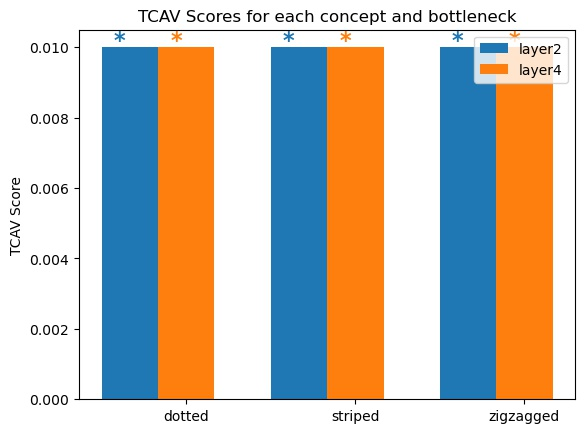
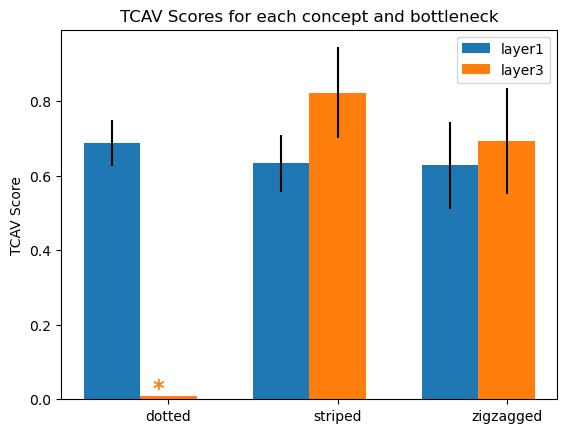
finally got some results

Changed region(s): [[0.0, 0.0, 0.9894, 0.9908]]

diff --git a/model.py b/model.py
@@ -1,6 +1,7 @@
 import torch
 import torchvision
 import torch.nn.functional as F
+from torchvision import transforms
 from abc import ABCMeta
 from abc import abstractmethod
 import numpy as np
@@ -8,6 +9,9 @@ import tensorflow as tf
 import gc
 
 import os
+
+from torchvision.transforms.transforms import CenterCrop
+
 os.environ["CUDA_VISIBLE_DEVICES"] = "0"
 device = torch.device("cuda:0" if torch.cuda.is_available() else "cpu")
 
@@ -25,7 +29,9 @@ class ModelWrapper(object):
         pass
 
     def get_gradient(self, acts, y, bottleneck_name):
-        inputs = torch.autograd.Variable(torch.tensor(acts).to(device), requires_grad=True)
+        inputs = torch.autograd.Variable(
+            torch.tensor(acts).to(device), requires_grad=True
+        )
         targets = (y[0] * torch.ones(inputs.size(0))).long().to(device)
 
         cutted_model = self.get_cutted_model(bottleneck_name).to(device)
@@ -34,7 +40,7 @@ class ModelWrapper(object):
 
         # y=[i]
         grads = -torch.autograd.grad(outputs[:, y[0]], inputs)[0]
-        
+
         grads = grads.detach().cpu().numpy()
 
         cutted_model = None
@@ -58,7 +64,9 @@ class ModelWrapper(object):
             global bn_activation
             bn_activation = out
 
-        handle = self.model._modules[bottleneck_name].register_forward_hook(save_activation_hook)
+        handle = self.model._modules[bottleneck_name].register_forward_hook(
+            save_activation_hook
+        )
 
         self.model.to(device)
         inputs = torch.FloatTensor(examples).permute(0, 3, 1, 2).to(device)
@@ -84,8 +92,7 @@ class ImageModelWrapper(ModelWrapper):
 
 
 class PublicImageModelWrapper(ImageModelWrapper):
-    """Simple wrapper of the public image models with session object.
-    """
+    """Simple wrapper of the public image models with session object."""
 
     def __init__(self, labels_path, image_shape):
         super(PublicImageModelWrapper, self).__init__(image_shape=image_shape)
@@ -93,6 +100,7 @@ class PublicImageModelWrapper(ImageModelWrapper):
 
     def label_to_id(self, label):
         return self.labels.index(label)
+
 
 class ResNet50_cutted(torch.nn.Module):
     def __init__(self, resnet50, bottleneck):
@@ -121,7 +129,7 @@ class ResNet50_cutted(torch.nn.Module):
         y = x
         for i in range(len(self.layers)):
             # pre-forward process
-            if self.layers_names[i] == 'fc':
+            if self.layers_names[i] == "fc":
                 y = torch.flatten(y, 1)
             y = self.layers[i](y)
         return y
@@ -145,7 +153,7 @@ class InceptionV3_cutted(torch.nn.Module):
                 continue  # because we already have the output of the bottleneck layer
             if not bottleneck_met:
                 continue
-            if name == 'AuxLogits':
+            if name == "AuxLogits":
                 continue
 
             self.layers.append(layer)
@@ -165,7 +173,7 @@ class InceptionV3_cutted(torch.nn.Module):
             #     y = F.adaptive_avg_pool2d(y, (1, 1))
             #     y = F.dropout(y, training=self.training)
             #     y = y.view(y.size(0), -1)
-            if self.layers_names[i] == 'fc':
+            if self.layers_names[i] == "fc":
                 y = y.view(y.size(0), -1)
 
             # print(self.layers_names[i])
@@ -176,14 +184,16 @@ class InceptionV3_cutted(torch.nn.Module):
 
 
 class InceptionV3Wrapper(PublicImageModelWrapper):
-
     def __init__(self, labels_path):
         image_shape = [299, 299, 3]
-        super(InceptionV3Wrapper, self).__init__(image_shape=image_shape,
-                                                 labels_path=labels_path)
-        self.model = torchvision.models.inception_v3(pretrained=True, transform_input=True)
+        super(InceptionV3Wrapper, self).__init__(
+            image_shape=image_shape, labels_path=labels_path
+        )
+        self.model = torchvision.models.inception_v3(
+            pretrained=True, transform_input=True
+        )
         # self.model = torchvision.models.resnet50(pretrained=True)
-        self.model_name = 'InceptionV3_public'
+        self.model_name = "InceptionV3_public"
 
     def forward(self, x):
         return self.model.forward(x)
@@ -191,16 +201,26 @@ class InceptionV3Wrapper(PublicImageModelWrapper):
     def get_cutted_model(self, bottleneck):
         return InceptionV3_cutted(self.model, bottleneck)
 
-class ResNet50Wrapper(PublicImageModelWrapper):
 
+class ResNet50Wrapper(PublicImageModelWrapper):
     def __init__(self, labels_path):
-        image_shape = [224, 224, 3]
-        super(ResNet50Wrapper, self).__init__(image_shape=image_shape,
-                                                 labels_path=labels_path)
+        image_shape = [256, 256, 3]
+        super(ResNet50Wrapper, self).__init__(
+            image_shape=image_shape, labels_path=labels_path
+        )
         self.model = torchvision.models.resnet50(pretrained=True)
-        self.model_name = 'ResNet50_public'
+        self.model_name = "ResNet50_public"
+        self.transform = transforms.Compose(
+            [
+                transforms.CenterCrop(224),
+                transforms.Normalize(
+                    mean=[0.485, 0.456, 0.406], std=[0.229, 0.224, 0.225]
+                ),
+            ]
+        )
 
     def forward(self, x):
+        x = self.transform(x)
         return self.model.forward(x)
 
     def get_cutted_model(self, bottleneck):

diff --git a/run.py b/run.py
@@ -18,13 +18,14 @@ import tensorflow as tf
 # bottlenecks: list of bottleneck names (intermediate layers in your model) that you want to use for TCAV. These names are defined in the model wrapper below.
 
 source_dir = "./image_net_subsets/"
+# source_dir = "./YOUR_FOLDER/"
 
 working_dir = './tcav_class_test'
 activation_dir = working_dir + '/activations/'
 cav_dir = working_dir + '/cavs/'
 # bottlenecks = ['Mixed_5d', 'Conv2d_2a_3x3']
 # bottlenecks = ['Conv2d_2a_3x3']
-bottlenecks = ['layer2','layer4']
+bottlenecks = ['layer1','layer3']
 # bottlenecks = ['layer4']
 
 utils.make_dir_if_not_exists(working_dir)
@@ -32,7 +33,7 @@ utils.make_dir_if_not_exists(activation_dir)
 utils.make_dir_if_not_exists(cav_dir)
 
 # this is a regularizer penalty parameter for linear classifier to get CAVs.
-alphas = [0.1]
+alphas = [0.0001]
 
 target = 'zebra'
 concepts = ["dotted", "striped", "zigzagged"]
@@ -42,15 +43,15 @@ LABEL_PATH = './imagenet_comp_graph_label_strings.txt'
 # mymodel = model.InceptionV3Wrapper(LABEL_PATH)
 mymodel = model.ResNet50Wrapper(LABEL_PATH)
 act_generator = act_gen.ImageActivationGenerator(
-    mymodel, source_dir, activation_dir, max_examples=100)
+    mymodel, source_dir, activation_dir, max_examples=40)
 
 # ---------------------------------------------------------------------------------------------------------------
 # num_random_exp: number of experiments to confirm meaningful concept direction. TCAV will search for this many folders named random500_0, random500_1, etc. You can alternatively set the random_concepts keyword to be a list of folders of random concepts. Run at least 10-20 for meaningful tests.
 
 # random_counterpart: as well as the above, you can optionally supply a single folder with random images as the "positive set" for statistical testing. Reduces computation time at the cost of less reliable random TCAV scores.
 
-tf.compat.v1.logging.set_verbosity(0)
-num_random_exp = 2  # folders (random500_0, random500_1)
+tf.compat.v1.logging.set_verbosity(20)
+num_random_exp = 10  # folders (random500_0, random500_1)
 
 mytcav = tcav.TCAV(target,
                    concepts,
@@ -62,4 +63,6 @@ mytcav = tcav.TCAV(target,
                    
 print('Loading mytcav')
 results = mytcav.run()
+for result in results:
+    print(result["cav_accuracies"])
 utils_plot.plot_results(results, num_random_exp=num_random_exp)
